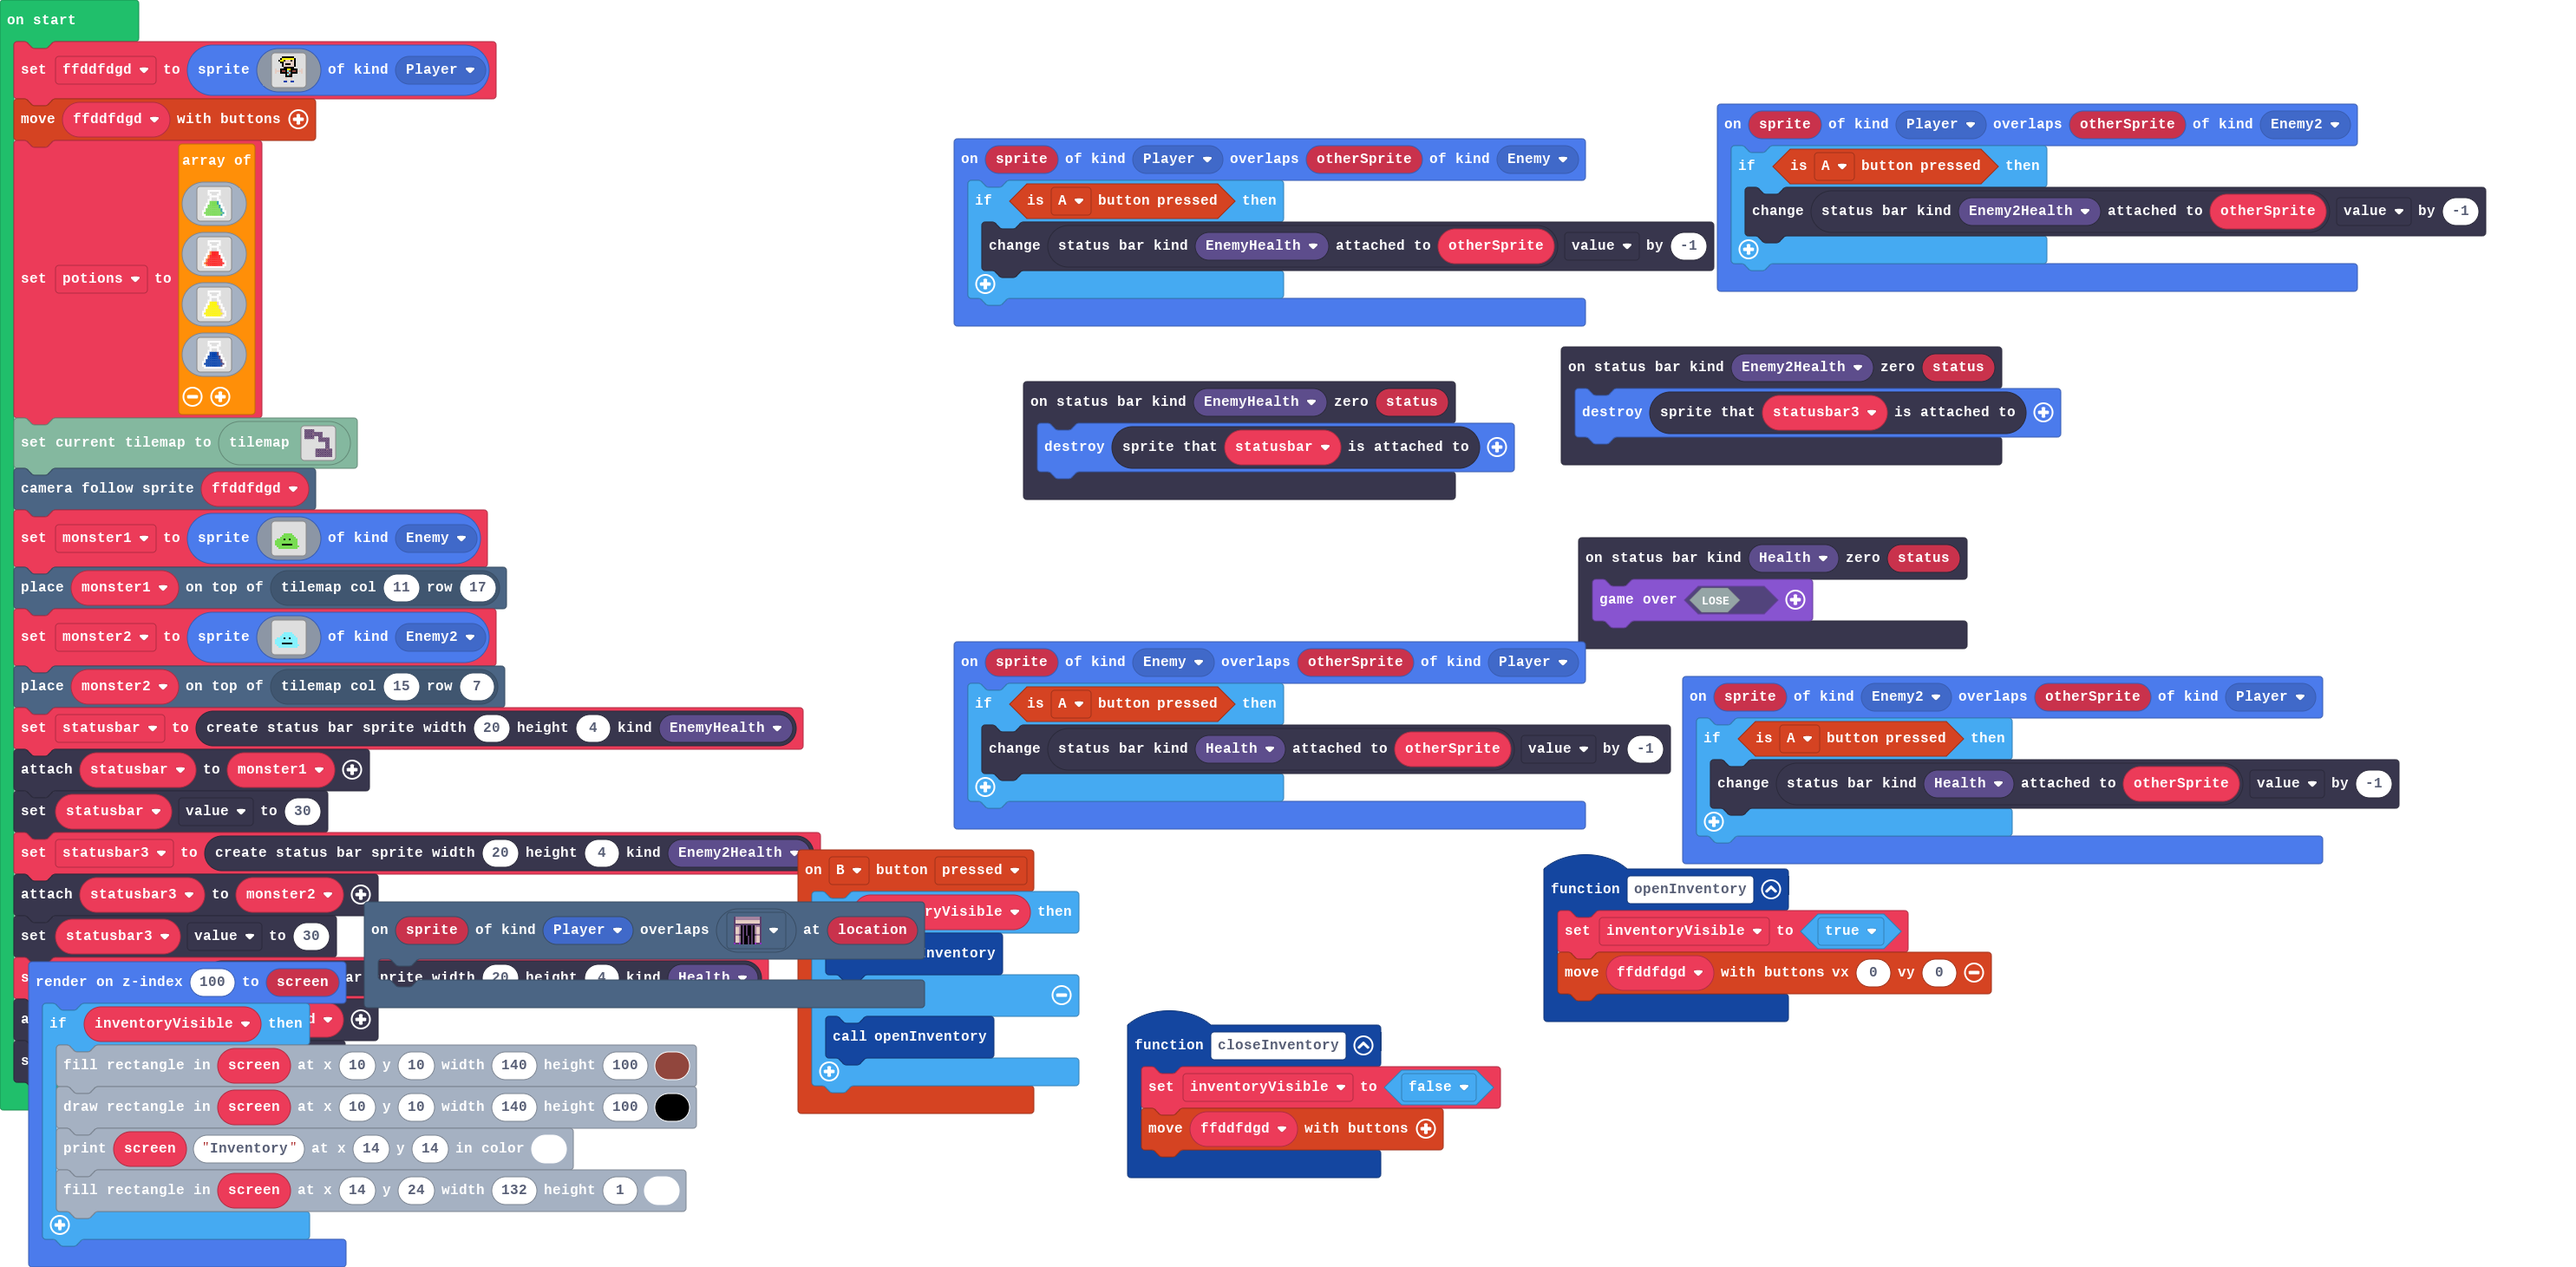
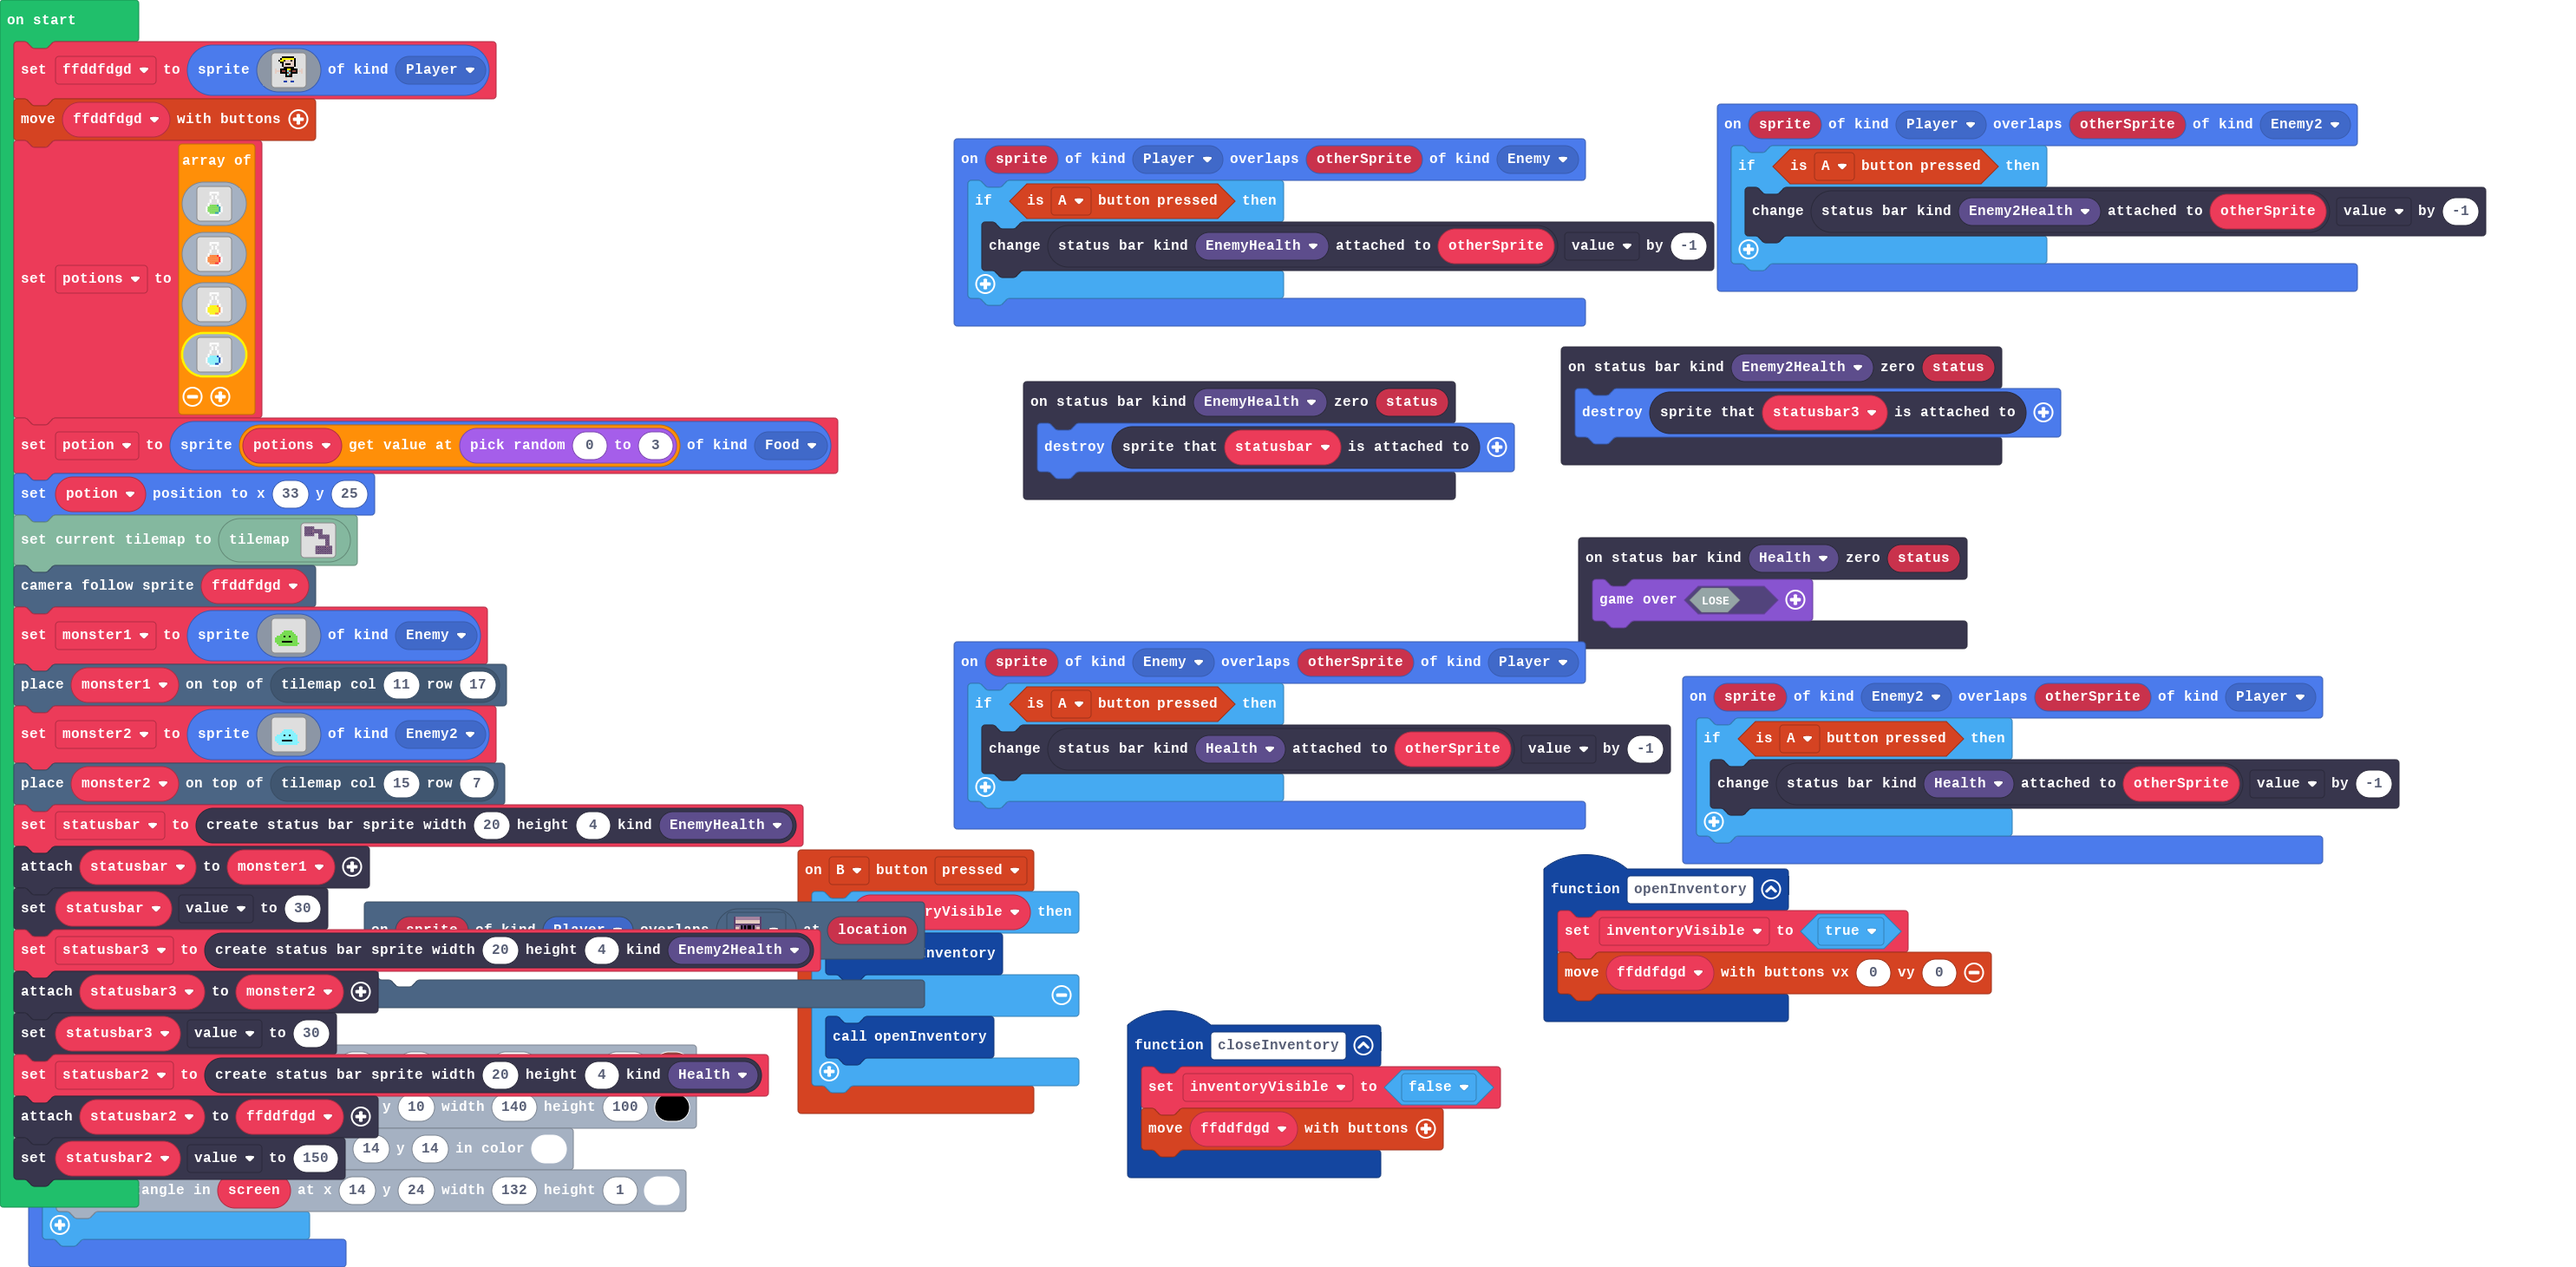
Update main.blocks, main.ts

Changed region(s): [[0.0, 0.2464, 0.3407, 0.9548], [0.062, 0.1848, 0.0929, 0.2156]]

diff --git a/main.ts b/main.ts
@@ -84,74 +84,76 @@ ffddfdgd = sprites.create(img`
 controller.moveSprite(ffddfdgd)
 let potions = [
 img`
-    . . . . 1 1 1 1 1 1 1 . . . . 
-    . . . . 1 . . . . . 1 . . . . 
-    . . . . 1 1 . . . 1 1 . . . . 
+    . . . . . . . . . . . . . . . 
     . . . . . 1 1 1 1 1 . . . . . 
     . . . . . 1 . . . 1 . . . . . 
-    . . . . 1 1 . . . 1 1 . . . . 
+    . . . . . . 1 . 1 . . . . . . 
+    . . . . . . 1 . 1 . . . . . . 
+    . . . . . 1 . . . 1 . . . . . 
+    . . . . . 1 . . . 1 . . . . . 
+    . . . . 1 . . . . . 1 . . . . 
     . . . . 1 7 7 7 7 6 1 . . . . 
-    . . . 1 1 7 7 7 7 6 1 1 . . . 
     . . . 1 7 7 7 7 7 7 6 1 . . . 
-    . . 1 1 7 7 7 7 7 7 6 1 1 . . 
-    . . 1 7 7 7 7 7 7 7 7 6 1 . . 
-    . 1 1 7 7 7 7 7 7 7 7 6 1 1 . 
-    . 1 7 7 7 7 7 7 7 7 7 7 6 1 . 
-    . 1 1 7 7 7 7 7 7 7 7 6 1 1 . 
-    . . 1 1 1 1 1 1 1 1 1 1 1 . . 
+    . . . 1 7 7 7 7 7 7 6 1 . . . 
+    . . . 1 7 7 7 7 7 7 6 1 . . . 
+    . . . . 1 7 7 7 6 6 1 . . . . 
+    . . . . . 1 1 1 1 1 . . . . . 
+    . . . . . . . . . . . . . . . 
     `,
 img`
-    . . . . 1 1 1 1 1 1 1 . . . . 
-    . . . . 1 . . . . . 1 . . . . 
-    . . . . 1 1 . . . 1 1 . . . . 
+    . . . . . . . . . . . . . . . 
     . . . . . 1 1 1 1 1 . . . . . 
     . . . . . 1 . . . 1 . . . . . 
-    . . . . 1 1 . . . 1 1 . . . . 
-    . . . . 1 4 2 2 2 2 1 . . . . 
-    . . . 1 1 4 2 2 2 2 1 1 . . . 
-    . . . 1 4 2 2 2 2 2 2 1 . . . 
-    . . 1 1 4 2 2 2 2 2 2 1 1 . . 
-    . . 1 4 2 2 2 2 2 2 2 2 1 . . 
-    . 1 1 4 2 2 2 2 2 2 2 2 1 1 . 
-    . 1 4 2 2 2 2 2 2 2 2 2 2 1 . 
-    . 1 1 4 2 2 2 2 2 2 2 2 1 1 . 
-    . . 1 1 1 1 1 1 1 1 1 1 1 . . 
+    . . . . . . 1 . 1 . . . . . . 
+    . . . . . . 1 . 1 . . . . . . 
+    . . . . . 1 . . . 1 . . . . . 
+    . . . . . 1 . . . 1 . . . . . 
+    . . . . 1 . . . . . 1 . . . . 
+    . . . . 1 4 4 4 4 2 1 . . . . 
+    . . . 1 4 4 4 4 4 4 2 1 . . . 
+    . . . 1 4 4 4 4 4 4 2 1 . . . 
+    . . . 1 4 4 4 4 4 4 2 1 . . . 
+    . . . . 1 4 4 4 2 2 1 . . . . 
+    . . . . . 1 1 1 1 1 . . . . . 
+    . . . . . . . . . . . . . . . 
     `,
 img`
-    . . . . 1 1 1 1 1 1 1 . . . . 
-    . . . . 1 . . . . . 1 . . . . 
-    . . . . 1 1 . . . 1 1 . . . . 
+    . . . . . . . . . . . . . . . 
     . . . . . 1 1 1 1 1 . . . . . 
     . . . . . 1 . . . 1 . . . . . 
-    . . . . 1 1 . . . 1 1 . . . . 
-    . . . . 1 5 5 5 5 d 1 . . . . 
-    . . . 1 1 5 5 5 5 d 1 1 . . . 
-    . . . 1 5 5 5 5 5 5 d 1 . . . 
-    . . 1 1 5 5 5 5 5 5 d 1 1 . . 
-    . . 1 5 5 5 5 5 5 5 5 d 1 . . 
-    . 1 1 5 5 5 5 5 5 5 5 d 1 1 . 
-    . 1 5 5 5 5 5 5 5 5 5 5 d 1 . 
-    . 1 1 5 5 5 5 5 5 5 5 d 1 1 . 
-    . . 1 1 1 1 1 1 1 1 1 1 1 . . 
+    . . . . . . 1 . 1 . . . . . . 
+    . . . . . . 1 . 1 . . . . . . 
+    . . . . . 1 . . . 1 . . . . . 
+    . . . . . 1 . . . 1 . . . . . 
+    . . . . 1 . . . . . 1 . . . . 
+    . . . . 1 5 5 5 5 4 1 . . . . 
+    . . . 1 5 5 5 5 5 5 4 1 . . . 
+    . . . 1 5 5 5 5 5 5 4 1 . . . 
+    . . . 1 5 5 5 5 5 5 4 1 . . . 
+    . . . . 1 5 5 5 4 4 1 . . . . 
+    . . . . . 1 1 1 1 1 . . . . . 
+    . . . . . . . . . . . . . . . 
     `,
 img`
-    . . . . 1 1 1 1 1 1 1 . . . . 
-    . . . . 1 . . . . . 1 . . . . 
-    . . . . 1 1 . . . 1 1 . . . . 
+    . . . . . . . . . . . . . . . 
     . . . . . 1 1 1 1 1 . . . . . 
     . . . . . 1 . . . 1 . . . . . 
-    . . . . 1 1 . . . 1 1 . . . . 
-    . . . . 1 8 8 8 8 c 1 . . . . 
-    . . . 1 1 8 8 8 8 c 1 1 . . . 
-    . . . 1 8 8 8 8 8 8 c 1 . . . 
-    . . 1 1 8 8 8 8 8 8 c 1 1 . . 
-    . . 1 8 8 8 8 8 8 8 8 c 1 . . 
-    . 1 1 8 8 8 8 8 8 8 8 c 1 1 . 
-    . 1 8 8 8 8 8 8 8 8 8 8 c 1 . 
-    . 1 1 8 8 8 8 8 8 8 8 c 1 1 . 
-    . . 1 1 1 1 1 1 1 1 1 1 1 . . 
+    . . . . . . 1 . 1 . . . . . . 
+    . . . . . . 1 . 1 . . . . . . 
+    . . . . . 1 . . . 1 . . . . . 
+    . . . . . 1 . . . 1 . . . . . 
+    . . . . 1 . . . . . 1 . . . . 
+    . . . . 1 9 9 9 9 8 1 . . . . 
+    . . . 1 9 9 9 9 9 9 8 1 . . . 
+    . . . 1 9 9 9 9 9 9 8 1 . . . 
+    . . . 1 9 9 9 9 9 9 8 1 . . . 
+    . . . . 1 9 9 9 8 8 1 . . . . 
+    . . . . . 1 1 1 1 1 . . . . . 
+    . . . . . . . . . . . . . . . 
     `
 ]
+let potion = sprites.create(potions[randint(0, 3)], SpriteKind.Food)
+potion.setPosition(33, 25)
 tiles.loadMap(tiles.createMap(tilemap`level1`))
 scene.cameraFollowSprite(ffddfdgd)
 let monster1 = sprites.create(img`
